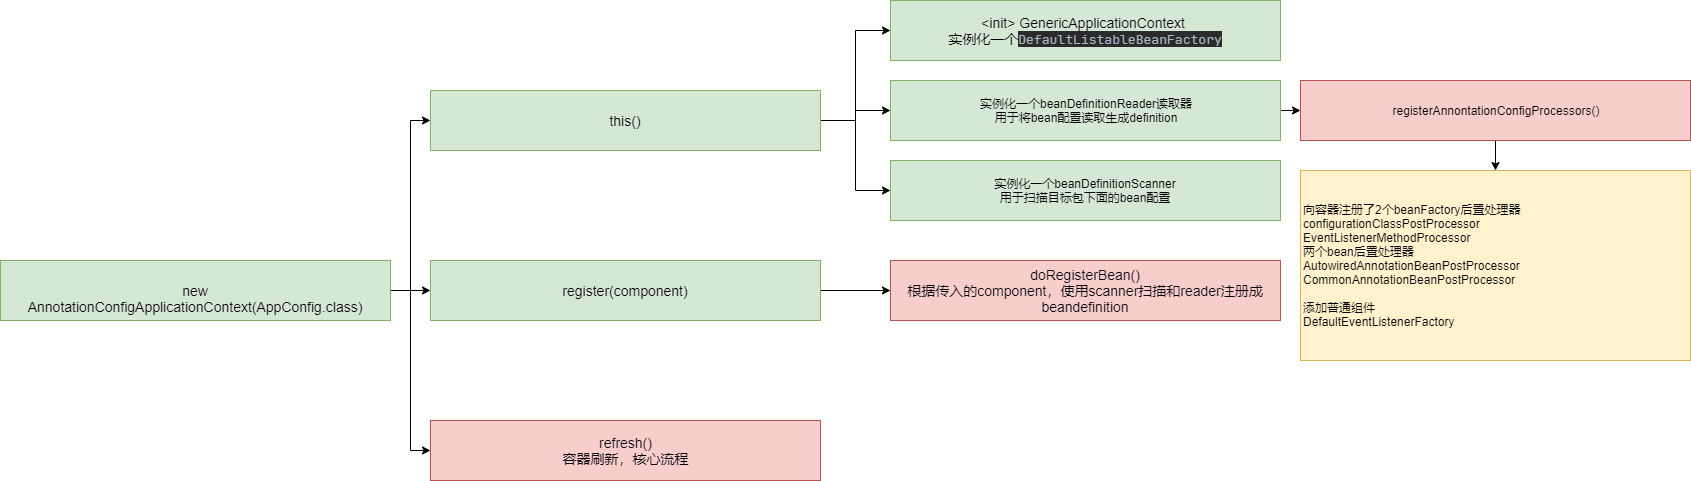
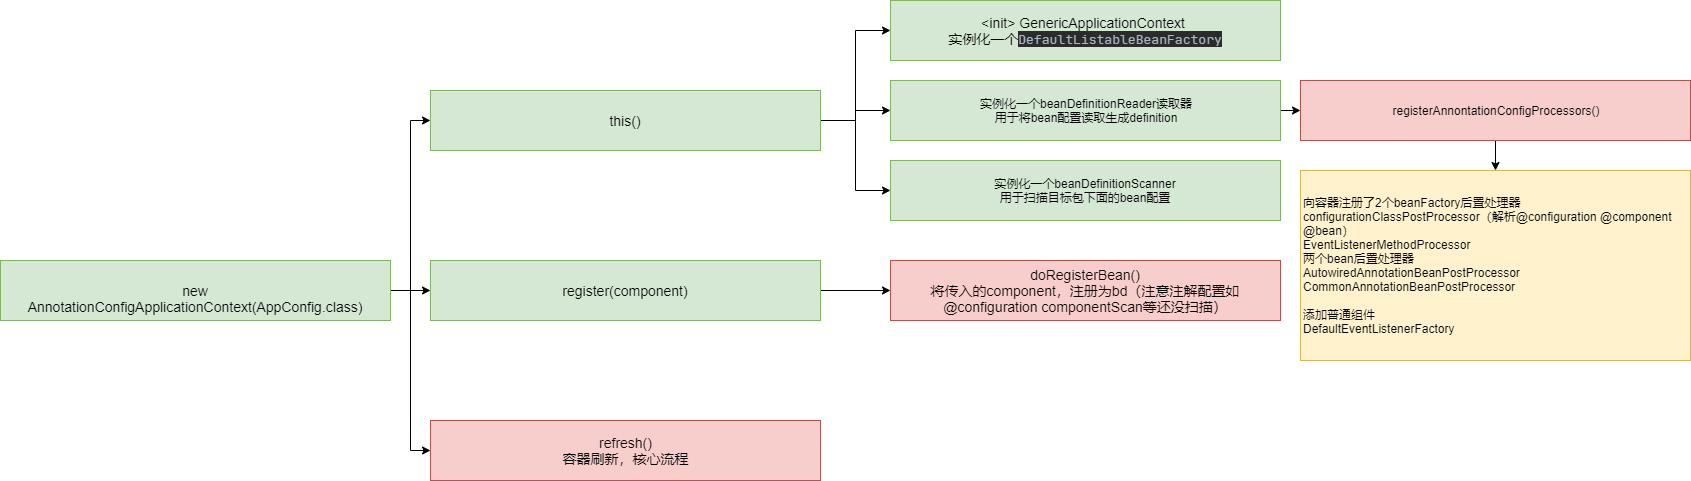
spring容器

Changed region(s): [[0.5228, 0.4054, 0.984, 0.7173]]

diff --git a/java/spring/spring-容器启动.md b/java/spring/spring-容器启动.md
@@ -145,7 +145,7 @@ public class App {
 
 ### 两个bean后置处理器
 
- - AutowiredAnnotationBeanPostProcessor
+ - `AutowiredAnnotationBeanPostProcessor`
 
      处理依赖注入
 
@@ -220,6 +220,323 @@ public class App {
 可以看到目前位置refresh()之前`beanFactory`里面一共只有6个`beanDefinition` (可以注意到目前还没有包含有user这个bean)五个是上一步骤spring官方注入的，一个是用户注入的，refresh()里面就会开始最重要的流程，使用官方的几个postProcessor，针对用户注册的完成全部的beanDefinition扫面及初始化
 
 # `refresh()`流程
+
+
+
+
+
+
+
+
+
+
+
+这是最核心的方法，简单概括
+
+- 根据预定义的beanPostProcessor 对用户提供的config进行扫描，生成beanDefinition对象
+- 根据bd反射生成bean
+
+
+
+```java
+/**
+	 * Load or refresh the persistent representation of the configuration,
+	 * which might an XML file, properties file, or relational database schema.
+	 * <p>As this is a startup method, it should destroy already created singletons
+	 * if it fails, to avoid dangling resources. In other words, after invocation
+	 * of that method, either all or no singletons at all should be instantiated.
+	 * 根据持久化的配置文件进行加载或者刷新，可能是xml、属性文件或者是db schema
+	 * 作为一个启动方法，当执行失败的时候应该销毁已经创建的单例对象，避免产生不可达资源，
+	 * 换言之，调用了这个方法后，要么全部实例化成功要么全部失败
+	 *
+	 * @throws BeansException if the bean factory could not be initialized
+	 * @throws IllegalStateException if already initialized and multiple refresh
+	 * attempts are not supported
+	 */
+	@Override
+	public void refresh() throws BeansException, IllegalStateException {
+		synchronized (this.startupShutdownMonitor) {
+			// Prepare this context for refreshing.
+			/**
+			 * 1
+			 * 状态初始化
+			 * 设置Spring容器的启动时间，
+			 * 开启活跃状态，撤销关闭状态，。
+			 * 初始化context environment（上下文环境）中的占位符属性来源。
+			 * 验证环境信息里一些必须存在的属性
+			 */
+			prepareRefresh();
+
+			// Tell the subclass to refresh the internal bean factory.
+			/**
+			 * 设置状态，设置序列化id
+			 * 获取beanFactory【之前初始化的DefaultListableBeanFactory】
+			 */
+			ConfigurableListableBeanFactory beanFactory = obtainFreshBeanFactory();
+
+			// Prepare the bean factory for use in this context.
+			/**
+			 *  BeanFactory的准备工作，设置BeanFactory的类加载器，添加几个BeanPostProcessor，手动注册几个特殊的bean等
+			 */
+			prepareBeanFactory(beanFactory);
+
+			try {
+				// Allows post-processing of the bean factory in context subclasses.
+				//子类通过中写这个方法，对beanFactory进行自定义修改，例如web就添加了web相关的beanPostProcessor
+				postProcessBeanFactory(beanFactory);
+
+				// Invoke factory processors registered as beans in the context.
+				/**
+				 * 1、执行BeanDefinitionRegistryPostProcessor
+				 * 		添加beanDefinition的扩展点
+				 * 2、执行beanFactoryPostProcessor
+				 * 		修改beanDefinition的扩展点
+				 */
+				invokeBeanFactoryPostProcessors(beanFactory);
+
+				// Register bean processors that intercept bean creation.
+				/**
+				 * 注册BeanPostProcessor
+				 */
+				registerBeanPostProcessors(beanFactory);
+
+				// Initialize message source for this context.
+				/**
+				 * 初始化messaheSource组件：国际化、消息绑定与解析
+				 */
+				initMessageSource();
+
+				// Initialize event multicaster for this context.
+				/**
+				 * 初始化消息派发器
+				 */
+				initApplicationEventMulticaster();
+
+				// Initialize other special beans in specific context subclasses.
+				/**
+				 * 扩展点，子类对容器初始化的自定义逻辑，web场景下有使用
+				 */
+				onRefresh();
+
+				// Check for listener beans and register them.
+				/**
+				 * 注册监听器，并且派发之前产生的事件
+				 */
+				registerListeners();
+
+				// Instantiate all remaining (non-lazy-init) singletons.
+				/**
+				 * 初始化所有未处理的单例bean(非懒加载)
+				 */
+				finishBeanFactoryInitialization(beanFactory);
+
+				// Last step: publish corresponding event.
+				/**
+				 * 完成刷新,生命周期相关的处理，发布容器启动完成事件
+				 *
+				 */
+				finishRefresh();
+			}
+
+			catch (BeansException ex) {
+				if (logger.isWarnEnabled()) {
+					logger.warn("Exception encountered during context initialization - " +
+							"cancelling refresh attempt: " + ex);
+				}
+
+				// Destroy already created singletons to avoid dangling resources.
+				destroyBeans();
+
+				// Reset 'active' flag.
+				cancelRefresh(ex);
+
+				// Propagate exception to caller.
+				throw ex;
+			}
+
+			finally {
+				// Reset common introspection caches in Spring's core, since we
+				// might not ever need metadata for singleton beans anymore...
+				resetCommonCaches();
+			}
+		}
+	}
+```
+
+### `PostProcessorRegistrationDelegate#invokeBeanFactoryPostProcessors`
+
+这个方法里面主要是执行`BeanDefinitionRegistryPostProcessor` （添加自定义`beanDefinition`，官方的`configurationClassPostProcessor`就是在这一步骤去扫描appConfig，并且遍历改配置的scan包拿到用户定义的bean 的`beanDefinition`）和`BeanFactoryPostProcessor`(修改`beanDefinition`) 两个接口的实现。
+
+`BeanFactoryPostProcessor` 又有一个子接口 `BeanDefinitionRegistryPostProcessor` ，前者会把 `ConfigurableListableBeanFactory` 暴露给我们使用，后者会把 `BeanDefinitionRegistry` 注册器暴露给我们使用，一旦获取到注册器，我们就可以按需注入了，例如搞定这种需求：假设容器中包含了 a 和 b，那么就动态向容器中注入 c，不满足就注入 d。
+
+熟悉 Spring 的同学都知道，Spring 中的同类型组件是允许我们控制顺序的，比如在 AOP 中我们常用的 `@Order`  注解，这里的 `BeanFactoryPostProcessor`  接口当然也是提供了顺序，最先被执行的是实现了 `PriorityOrdered` 接口的实现类，然后再到实现了 `Ordered` 接口的实现类，最后就是剩下来的常规 `BeanFactoryPostProcessor`   类。(作者：敖丙 链接：https://juejin.cn/post/6906637797080170510， 原作者这章写的很好)
+
+![img](https://yulam-1308258423.cos.ap-guangzhou.myqcloud.com/note/116f788597074444b27469eb773ecf6e~tplv-k3u1fbpfcp-zoom-in-crop-mark:3024:0:0:0.awebp)
+
+```java
+	/**
+	 * 1.先处理BeanDefinitionRegistryPostProcessors
+	 * 	 1.自定义的BeanDefinitionRegistryPostProcessors(即 param beanFactoryPostProcessors)
+	 * 	 2.实现了PriorityOrdered接口的
+	 * 	 3.实现了Ordered接口的
+	 * 	 4、剩下的
+	 * 2.执行BeanFactoryPostProcessor
+	 *   次序同上
+	 * @param beanFactory
+	 * @param beanFactoryPostProcessors  这个参数是指用户通过 AnnotationConfigApplicationContext
+	 *                                      .addBeanFactoryPostProcessor()方法手动传入的
+	 *                                      BeanFactoryPostProcessor，没有交给 spring 管理
+	 */
+	public static void invokeBeanFactoryPostProcessors(
+			ConfigurableListableBeanFactory beanFactory, List<BeanFactoryPostProcessor> beanFactoryPostProcessors) {
+		// beanFactoryPostProcessors 这个参数是指用户通过 AnnotationConfigApplicationContext.addBeanFactoryPostProcessor()
+		// 方法手动传入的 BeanFactoryPostProcessor，没有交给 spring 管理
+
+
+		// Invoke BeanDefinitionRegistryPostProcessors first, if any.
+		// 存储
+		Set<String> processedBeans = new HashSet<>();
+
+		if (beanFactory instanceof BeanDefinitionRegistry) {
+			BeanDefinitionRegistry registry = (BeanDefinitionRegistry) beanFactory;
+			//常规的 BeanFactoryPostProcessor
+			List<BeanFactoryPostProcessor> regularPostProcessors = new ArrayList<>();
+			//实现的是 BeanDefinitionRegistryPostProcessor
+			List<BeanDefinitionRegistryPostProcessor> registryProcessors = new ArrayList<>();
+
+			//先处理自定义的 BeanFactoryPostProcessor
+			for (BeanFactoryPostProcessor postProcessor : beanFactoryPostProcessors) {
+				if (postProcessor instanceof BeanDefinitionRegistryPostProcessor) {
+					BeanDefinitionRegistryPostProcessor registryProcessor =
+							(BeanDefinitionRegistryPostProcessor) postProcessor;
+					registryProcessor.postProcessBeanDefinitionRegistry(registry);
+					registryProcessors.add(registryProcessor);
+				}
+				else {
+					regularPostProcessors.add(postProcessor);
+				}
+			}
+
+			// Do not initialize FactoryBeans here: We need to leave all regular beans
+			// uninitialized to let the bean factory post-processors apply to them!
+			// Separate between BeanDefinitionRegistryPostProcessors that implement
+			// PriorityOrdered, Ordered, and the rest. <= 注意了，这里说了顺序
+			//表示当前要处理的
+			List<BeanDefinitionRegistryPostProcessor> currentRegistryProcessors = new ArrayList<>();
+
+			// First, invoke the BeanDefinitionRegistryPostProcessors that implement PriorityOrdered.
+
+			// 获取所有的BRPP
+			String[] postProcessorNames =
+					beanFactory.getBeanNamesForType(BeanDefinitionRegistryPostProcessor.class, true, false);
+			for (String ppName : postProcessorNames) {
+				// PriorityOrdered no 1
+				if (beanFactory.isTypeMatch(ppName, PriorityOrdered.class)) {
+					currentRegistryProcessors.add(beanFactory.getBean(ppName, BeanDefinitionRegistryPostProcessor.class));
+					processedBeans.add(ppName);
+				}
+			}
+			sortPostProcessors(currentRegistryProcessors, beanFactory);
+			registryProcessors.addAll(currentRegistryProcessors);
+			invokeBeanDefinitionRegistryPostProcessors(currentRegistryProcessors, registry);
+			currentRegistryProcessors.clear();
+
+			// Next, invoke the BeanDefinitionRegistryPostProcessors that implement Ordered.
+			postProcessorNames = beanFactory.getBeanNamesForType(BeanDefinitionRegistryPostProcessor.class, true, false);
+			for (String ppName : postProcessorNames) {
+				// Ordered NO 2
+				if (!processedBeans.contains(ppName) && beanFactory.isTypeMatch(ppName, Ordered.class)) {
+					currentRegistryProcessors.add(beanFactory.getBean(ppName, BeanDefinitionRegistryPostProcessor.class));
+					processedBeans.add(ppName);
+				}
+			}
+			sortPostProcessors(currentRegistryProcessors, beanFactory);
+			registryProcessors.addAll(currentRegistryProcessors);
+			invokeBeanDefinitionRegistryPostProcessors(currentRegistryProcessors, registry);
+			currentRegistryProcessors.clear();
+
+			// Finally, invoke all other BeanDefinitionRegistryPostProcessors until no further ones appear.
+			boolean reiterate = true;
+			while (reiterate) {
+				//  其他 no3
+				reiterate = false;
+				postProcessorNames = beanFactory.getBeanNamesForType(BeanDefinitionRegistryPostProcessor.class, true, false);
+				for (String ppName : postProcessorNames) {
+					if (!processedBeans.contains(ppName)) {
+						currentRegistryProcessors.add(beanFactory.getBean(ppName, BeanDefinitionRegistryPostProcessor.class));
+						processedBeans.add(ppName);
+						reiterate = true;
+					}
+				}
+				sortPostProcessors(currentRegistryProcessors, beanFactory);
+				registryProcessors.addAll(currentRegistryProcessors);
+				invokeBeanDefinitionRegistryPostProcessors(currentRegistryProcessors, registry);
+				currentRegistryProcessors.clear();
+			}
+
+			// Now, invoke the postProcessBeanFactory callback of all processors handled so far.
+			// BeanDefinitionRegistryPostProcessor 同时也是BeanFactoryPostProcessor 所以这里也是需要调用 BeanFactoryPostProcessor 的方法
+			invokeBeanFactoryPostProcessors(registryProcessors, beanFactory);
+			invokeBeanFactoryPostProcessors(regularPostProcessors, beanFactory);
+		}
+
+		else {
+			// Invoke factory processors registered with the context instance.
+			invokeBeanFactoryPostProcessors(beanFactoryPostProcessors, beanFactory);
+		}
+		//============================= 下面就是处理 BeanFactoryPostProcessor 处理顺序同上
+		// Do not initialize FactoryBeans here: We need to leave all regular beans
+		// uninitialized to let the bean factory post-processors apply to them!
+		String[] postProcessorNames =
+				beanFactory.getBeanNamesForType(BeanFactoryPostProcessor.class, true, false);
+
+		// Separate between BeanFactoryPostProcessors that implement PriorityOrdered,
+		// Ordered, and the rest.
+		List<BeanFactoryPostProcessor> priorityOrderedPostProcessors = new ArrayList<>();
+		List<String> orderedPostProcessorNames = new ArrayList<>();
+		List<String> nonOrderedPostProcessorNames = new ArrayList<>();
+		for (String ppName : postProcessorNames) {
+			if (processedBeans.contains(ppName)) {
+				// skip - already processed in first phase above
+			}
+			else if (beanFactory.isTypeMatch(ppName, PriorityOrdered.class)) {
+				priorityOrderedPostProcessors.add(beanFactory.getBean(ppName, BeanFactoryPostProcessor.class));
+			}
+			else if (beanFactory.isTypeMatch(ppName, Ordered.class)) {
+				orderedPostProcessorNames.add(ppName);
+			}
+			else {
+				nonOrderedPostProcessorNames.add(ppName);
+			}
+		}
+
+		// First, invoke the BeanFactoryPostProcessors that implement PriorityOrdered.
+		sortPostProcessors(priorityOrderedPostProcessors, beanFactory);
+		invokeBeanFactoryPostProcessors(priorityOrderedPostProcessors, beanFactory);
+
+		// Next, invoke the BeanFactoryPostProcessors that implement Ordered.
+		List<BeanFactoryPostProcessor> orderedPostProcessors = new ArrayList<>(orderedPostProcessorNames.size());
+		for (String postProcessorName : orderedPostProcessorNames) {
+			orderedPostProcessors.add(beanFactory.getBean(postProcessorName, BeanFactoryPostProcessor.class));
+		}
+		sortPostProcessors(orderedPostProcessors, beanFactory);
+		invokeBeanFactoryPostProcessors(orderedPostProcessors, beanFactory);
+
+		// Finally, invoke all other BeanFactoryPostProcessors.
+		List<BeanFactoryPostProcessor> nonOrderedPostProcessors = new ArrayList<>(nonOrderedPostProcessorNames.size());
+		for (String postProcessorName : nonOrderedPostProcessorNames) {
+			nonOrderedPostProcessors.add(beanFactory.getBean(postProcessorName, BeanFactoryPostProcessor.class));
+		}
+		invokeBeanFactoryPostProcessors(nonOrderedPostProcessors, beanFactory);
+
+		// Clear cached merged bean definitions since the post-processors might have
+		// modified the original metadata, e.g. replacing placeholders in values...
+		//清空缓存
+		beanFactory.clearMetadataCache();
+	}
+```
+
+
 
  
 
